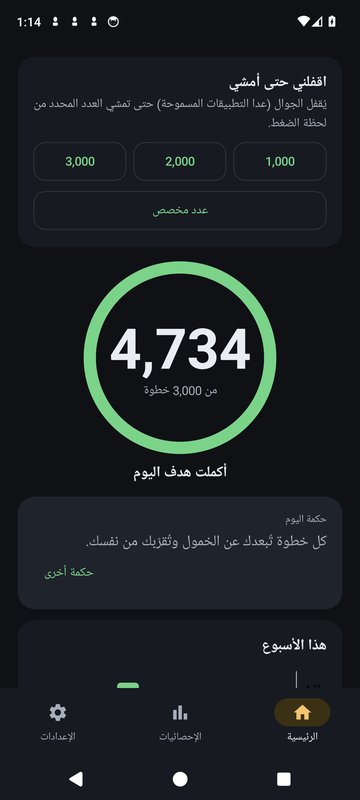
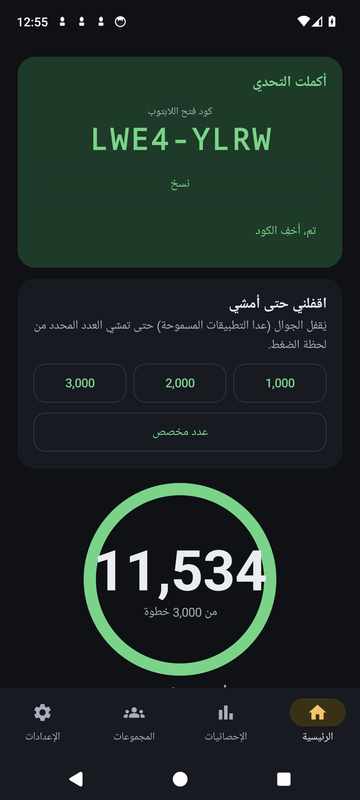
README v2: laptop pairing and codes flow, groups, language, day slider; fresh screenshots from CI
Claude-Session: https://claude.ai/code/session_01BBkAJwvFauh1QuPJP9u6uV

diff --git a/README.md b/README.md
@@ -1,6 +1,10 @@
 # khatwa (خطوة)
 
 <p align="center">
+  <img src="docs/logo.png" width="120" alt="شعار خطوة">
+</p>
+
+<p align="center">
   <img src="docs/screenshots/home.png" width="230" alt="الشاشة الرئيسية">
   &nbsp;&nbsp;
   <img src="docs/screenshots/lock-blocked.png" width="230" alt="شاشة القفل فوق تطبيق محظور">
@@ -8,7 +12,7 @@
   <img src="docs/screenshots/stats.png" width="230" alt="الإحصائيات">
 </p>
 
-**English summary.** khatwa is a free, open-source (MIT) Android app that counts your daily steps from the phone's built-in step sensor, shows light statistics and a daily Arabic quote, and can lock the phone (except apps you allow) until you walk a set number of steps, either on demand or on a daily schedule. A small Windows companion (`laptop-lock/`) locks your laptop at login until you enter a 6-digit daily code that the app reveals only after you reach your goal; the code is derived offline from a shared secret and the date. Everything works without internet; nothing leaves the phone. Downloads (APK and Windows exe) are on the **Releases** page. The rest of this README is in Arabic and written for non-technical users.
+**English summary.** khatwa is a free, open-source (MIT) Android app, in Arabic and English, that counts your daily steps from the phone's built-in step sensor, shows clean statistics and a sourced daily quote, and can lock the phone (except apps you allow) until you walk a set number of steps, on demand or on a daily schedule. A small Windows companion (`laptop-lock/`) locks your laptop too: pair it once with the phone, paste the *lock code* the phone shows when you start a walking challenge, and paste the *unlock code* it shows when the challenge is done. Both codes are derived offline from a shared secret, no network involved. An optional **Groups** tab (Firebase, off by default) lets friends compete on steps with anonymous identities and invite codes. Everything else works without internet; nothing leaves the phone unless you enable groups. Downloads (APK and Windows exe) are on the **Releases** page. The rest of this README is in Arabic and written for non-technical users.
 
 ---
 
@@ -16,12 +20,12 @@
 
 ## ما هو «خطوة»؟
 
-تطبيق أندرويد مجاني ومفتوح المصدر يعدّ خطواتك كل يوم من حساس الجوال مباشرة، ويعرض إحصائيات هادئة وحكمة يومية، ويستطيع قفل الجوال (ما عدا التطبيقات التي تسمح بها) حتى تمشي عدداً محدداً من الخطوات. ومعه برنامج صغير لويندوز يقفل اللابتوب عند تسجيل الدخول حتى تكمل هدف اليوم على الجوال.
+تطبيق أندرويد مجاني ومفتوح المصدر (بالعربية والإنجليزية) يعدّ خطواتك كل يوم من حساس الجوال مباشرة، ويعرض إحصائيات نظيفة وحكمة يومية موثّقة المصدر، ويستطيع قفل الجوال (ما عدا التطبيقات التي تسمح بها) حتى تمشي عدداً محدداً من الخطوات. ومعه برنامج صغير لويندوز يقفل اللابتوب بنفس التحدي: تقفل الجوال، تلصق «كود القفل» في اللابتوب فيُقفل، وعند إكمال التحدي تلصق «كود الفتح» فيُفتح. وفيه تبويب اختياري للمجموعات والتنافس مع الأصدقاء.
 
 **ما الذي لا يفعله:**
 
-- لا يحتاج إنترنت. لا حساب، لا تسجيل، لا إعلانات، لا ذكاء اصطناعي، لا Google Fit ولا Health Connect ولا Samsung Health.
-- لا يرسل أي بيانات إلى أي مكان. الاستثناء الوحيد ميزة «المجموعات والتنافس» الاختيارية التي لم تُضف بعد؛ وإن أضيفت فلن تعمل إلا إذا فعّلتها بنفسك، وحينها تُرسل اسماً مستعاراً وخطوات اليوم فقط.
+- لا يحتاج إنترنت (إلا ميزة المجموعات إن فعّلتها بنفسك). لا حساب، لا تسجيل، لا إعلانات، لا Google Fit ولا Health Connect ولا Samsung Health.
+- لا يرسل أي بيانات إلى أي مكان. الاستثناء الوحيد ميزة «المجموعات والتنافس»: مطفأة افتراضياً، وعند تفعيلها تُرسل اسماً مستعاراً وأرقام خطواتك فقط (الفقرة 3).
 - لا يحسب سعرات ولا مسافات ولا مؤشر كتلة الجسم. الوزن سجلٌ يدوي واتجاه فقط.
 - القفل ليس مستحيل الكسر، ولا يريد أن يكون. فيه مخرج طوارئ مقصود (انتظار دقيقة وكتابة جملة طويلة)، وكل استخدام له يُسجَّل باسم «استسلام».
 
@@ -33,7 +37,7 @@
 2. افتح التطبيق واتبع شاشة الترحيب: تشرح كل صلاحية قبل طلبها (1.3).
 3. فعّل «خدمة الإتاحة» و«العرض فوق التطبيقات» حتى يعمل القفل (1.4 و1.5). بدونهما يعدّ التطبيق خطواتك لكنه لا يستطيع قفل الجوال.
 4. على سامسونج: استثنِ التطبيق من قيود البطارية حتى لا يتوقف العدّ (1.6).
-5. امشِ. عندما تريد قفل الجوال اضغط 1000 أو 2000 أو 3000 في الرئيسية، أو فعّل القفل المجدول من الإعدادات.
+5. امشِ. عندما تريد قفل الجوال اضغط 1000 أو 2000 أو 3000 في الرئيسية، أو فعّل القفل المجدول من الإعدادات. ولقفل اللابتوب معه انظر الفقرة 2.
 
 ---
 
@@ -101,14 +105,15 @@
 
 ### 1.7 كيف يعمل التطبيق يومياً
 
-**الرئيسية.** رقم اليوم مع حلقة التقدّم، حكمة اليوم (وزر «حكمة أخرى»)، أعمدة الأسبوع مع خط الهدف، جلسات هذا الأسبوع، مقارنة بالأسبوع الماضي (نفس الأيام المنقضية، والأسبوع يبدأ الأحد لأن الجمعة والسبت عطلة)، السلسلة الحالية وأطول سلسلة، كود اللابتوب لليوم (يظهر فقط عند اكتمال الهدف)، وأزرار «اقفلني حتى أمشي».
+**الرئيسية.** رقم اليوم مع حلقة التقدّم، حكمة اليوم مع مصدرها (وزر «حكمة أخرى»؛ يمكن إخفاء البطاقة من الإعدادات)، أعمدة الأسبوع مع خط الهدف، جلسات هذا الأسبوع، مقارنة بالأسبوع الماضي (نفس الأيام المنقضية، والأسبوع يبدأ الأحد لأن الجمعة والسبت عطلة)، السلسلة الحالية وأطول سلسلة، أزرار «اقفلني حتى أمشي»، وأثناء القفل بطاقة «كود قفل اللابتوب» (الفقرة 2).
 
-**الإحصائيات.** آخر 30 يوماً (متوسط، أفضل يوم، أيام تحقق الهدف، الجلسات)، جلسات المشي (الجلسة = مشي متواصل 10 دقائق فأكثر مع توقفات لا تتجاوز دقيقتين)، آخر 12 شهراً مع خط الوزن، توزيع المشي على ساعات اليوم، وعدّاد الاستسلامات هذا الشهر.
+**الإحصائيات.** في الأعلى **شريط الأيام**: اسحبه يميناً ويساراً؛ اليوم في المنتصف يظهر كبيراً مع خطواته وحلقة هدفه، واليوم الذي بعده عن يمينه واليوم الذي قبله عن يساره بشكل ضبابي، والضغط على أيهما ينقله إلى المنتصف. تحته تفاصيل اليوم المختار (نسبة الهدف، الجلسات، أطول جلسة)، ثم السلاسل والمتوسط وأفضل يوم، ثم آخر 30 يوماً، جلسات المشي (الجلسة = مشي متواصل 10 دقائق فأكثر مع توقفات لا تتجاوز دقيقتين)، آخر 12 شهراً مع خط الوزن، توزيع المشي على ساعات اليوم، والاستسلامات هذا الشهر.
 
 <table align="center">
   <tr>
     <td align="center"><img src="docs/screenshots/home.png" width="230" alt="الرئيسية بعد اكتمال الهدف"><br>الرئيسية بعد اكتمال هدف اليوم</td>
-    <td align="center"><img src="docs/screenshots/stats.png" width="230" alt="الإحصائيات"><br>الإحصائيات</td>
+    <td align="center"><img src="docs/screenshots/stats.png" width="230" alt="الإحصائيات: شريط الأيام"><br>الإحصائيات: شريط الأيام</td>
+    <td align="center"><img src="docs/screenshots/stats-charts.png" width="230" alt="الإحصائيات: المخططات"><br>الإحصائيات: المخططات</td>
   </tr>
 </table>
 
@@ -128,7 +133,7 @@
 
 **قائمة المسموح.** افتراضياً الهاتف وجهات الاتصال والرسائل ويوتيوب. مسموح دائماً ولا يمكن حظره: المكالمات، الطوارئ، واجهة النظام، المشغّل، لوحة المفاتيح، وهذا التطبيق. خيار «حظر تطبيق الإعدادات أثناء القفل» مفعّل افتراضياً.
 
-**الطوارئ.** زر «طوارئ / إلغاء القفل» في شاشة القفل (وفي الرئيسية أثناء القفل): انتظار 60 ثانية، ثم كتابة الجملة «أختار الاستسلام اليوم وأعلم أن هذا يُسجَّل» حرفياً، ثم تأكيد. يُسجَّل استسلاماً بالتاريخ والخطوات المتبقية.
+**الطوارئ.** زر «طوارئ / إلغاء القفل» في شاشة القفل (وفي الرئيسية أثناء القفل): انتظار 60 ثانية، ثم كتابة جملة طويلة حرفياً (بالعربية «أختار الاستسلام اليوم وأعلم أن هذا يُسجَّل»، وبالإنجليزية جملة مكافئة عندما تكون لغة التطبيق إنجليزية)، ثم تأكيد. يُسجَّل استسلاماً بالتاريخ والخطوات المتبقية.
 
 <table align="center">
   <tr>
@@ -137,17 +142,19 @@
   </tr>
 </table>
 
-**الإعدادات.** الهدف، القفل المجدول، قائمة المسموح، قفل اللابتوب، سجل الوزن، الحكم (تعديل وتصدير واستيراد)، النسخة الاحتياطية، حالة الصلاحيات، الإشعار الصباحي، والمظهر.
+**الإعدادات.** الهدف، القفل المجدول، قائمة المسموح، قفل اللابتوب (الاقتران)، سجل الوزن، الحكم (تعديل وتصدير واستيراد)، النسخة الاحتياطية، حالة الصلاحيات، ثم بطاقة «الإشعارات والمظهر».
 
-**المظهر.** من الإعدادات ← الإشعارات والمظهر: «تلقائي» (يتبع وضع الجهاز)، أو «فاتح»، أو «داكن». الواجهة والمخططات كلها من اليمين إلى اليسار.
+**اللغة والمظهر.** من الإعدادات ← الإشعارات والمظهر: اللغة **العربية** أو **English** (تتغير كل الشاشات والإشعارات واتجاه الواجهة والمخططات فوراً، وتُختار الحكم بلغة التطبيق)، والمظهر «تلقائي» (يتبع وضع الجهاز) أو «فاتح» أو «داكن».
 
 <table align="center">
   <tr>
     <td align="center"><img src="docs/screenshots/settings.png" width="230" alt="شاشة الإعدادات"><br>الإعدادات</td>
     <td align="center"><img src="docs/screenshots/home-light.png" width="230" alt="الرئيسية بالمظهر الفاتح"><br>الرئيسية بالمظهر الفاتح</td>
-    <td align="center"><img src="docs/screenshots/stats-light.png" width="230" alt="الإحصائيات بالمظهر الفاتح"><br>الإحصائيات بالمظهر الفاتح</td>
+    <td align="center"><img src="docs/screenshots/english-home.png" width="230" alt="الرئيسية بالإنجليزية"><br>الرئيسية بالإنجليزية</td>
   </tr>
 </table>
+
+**الحكم.** مجموعة موثّقة المصدر: أبيات ومقولات عربية (الشافعي، المتنبي، الشابي، ابن الوردي، أبو ماضي، شوقي، جبران، ابن خلدون وغيرهم) ومقولات إنجليزية من فلاسفة وكتّاب معروفين، كل واحدة منسوبة إلى قائلها. لا أحاديث ولا نصوص من تأليف أحد. يمكنك تعديل القائمة أو إضافة حكمك أو استعادة القائمة الأصلية من الإعدادات ← الحكم.
 
 <table align="center">
   <tr>
@@ -158,7 +165,7 @@
 
 ### 1.8 النسخة الاحتياطية
 
-الإعدادات ← النسخة الاحتياطية ← **تصدير نسخة كاملة**: ملف JSON واحد يشمل الخطوات والجلسات واللقطات والوزن والاستسلامات والحكم وكل الإعدادات (بما فيها سر اللابتوب). احفظه في مكان آمن (مثلاً Google Drive الخاص بك). **الاستيراد** يستبدل كل البيانات الحالية. **مسح كل البيانات** يعيد التطبيق إلى شاشة الترحيب.
+الإعدادات ← النسخة الاحتياطية ← **تصدير نسخة كاملة**: ملف JSON واحد يشمل الخطوات والجلسات واللقطات والوزن والاستسلامات والحكم وكل الإعدادات (بما فيها كود اقتران اللابتوب واسمك المستعار في المجموعات). احفظه في مكان آمن (مثلاً Google Drive الخاص بك). **الاستيراد** يستبدل كل البيانات الحالية. **مسح كل البيانات** يعيد التطبيق إلى شاشة الترحيب.
 
 ---
 
@@ -166,70 +173,117 @@
 
 ### 2.1 المبدأ
 
-كود يومي من 6 أرقام يُحسب من (سر مشترك + تاريخ اليوم) على الجهازين بلا أي شبكة. الجوال يعرض الكود فقط بعد اكتمال هدف اليوم. اللابتوب يطلبه عند تسجيل الدخول، ويقبل كود اليوم أو كود الأمس. عند القبول يبقى مفتوحاً حتى نهاية اليوم، وفي اليوم التالي يقفل من جديد.
+لا شبكة ولا بلوتوث ولا حساب. الجوال واللابتوب يتشاركان **كود اقتران** واحداً (16 حرفاً) تدخله في اللابتوب مرة واحدة. بعدها لكل تحدي مشي كودان يحسبهما الجهازان بنفس الطريقة:
+
+- **كود قفل اللابتوب** (8 أحرف): يظهر في الرئيسية لحظة قفل الجوال. تلصقه في برنامج اللابتوب فيُقفل اللابتوب. الكود الخاطئ يُرفض.
+- **كود فتح اللابتوب** (8 أحرف): يظهر في الرئيسية عندما ينتهي التحدي (أكملت الخطوات أو استسلمت). تلصقه في شاشة قفل اللابتوب فيُفتح.
+
+<table align="center">
+  <tr>
+    <td align="center"><img src="docs/screenshots/laptop-lock-code.png" width="230" alt="كود قفل اللابتوب في الرئيسية"><br>عند القفل: كود قفل اللابتوب</td>
+    <td align="center"><img src="docs/screenshots/laptop-unlock-code.png" width="230" alt="كود فتح اللابتوب في الرئيسية"><br>عند إكمال التحدي: كود الفتح</td>
+    <td align="center"><img src="docs/screenshots/laptop-settings.png" width="230" alt="شاشة قفل اللابتوب في الإعدادات"><br>الإعدادات ← قفل اللابتوب: الاقتران</td>
+  </tr>
+</table>
 
 ### 2.2 التحميل وتحذير SmartScreen
 
-1. من صفحة **Releases** نزّل `khatwa-laptop-lock-<الإصدار>.exe` و`install.ps1` و`uninstall.ps1` وضعها في مجلد واحد (مثلاً `C:\khatwa`).
+1. من صفحة **Releases** نزّل `khatwa-laptop-lock-<الإصدار>.exe` (ملف واحد، لا تثبيت). ضعه في أي مجلد، مثلاً `C:\khatwa`.
 2. عند أول تشغيل قد يظهر **Windows SmartScreen**: «منع Windows تشغيل تطبيق غير معروف». اضغط **«مزيد من المعلومات»** ثم **«التشغيل على أي حال»**. السبب أن الملف غير موقّع بشهادة تجارية مدفوعة، وهذا طبيعي لبرنامج مفتوح المصدر.
 3. إن حجب المتصفح التنزيل، اختر «الاحتفاظ بالملف».
 
-### 2.3 نسخ السر من التطبيق
+### 2.3 الاقتران (مرة واحدة)
 
-في الجوال: الإعدادات ← **قفل اللابتوب** ← **توليد السر**. يظهر السر (24 حرفاً) مرة واحدة مع زر نسخ. انقله إلى اللابتوب (اكتبه يدوياً أو أرسله لنفسك بأي طريقة تثق بها ثم احذفه).
+1. في الجوال: الإعدادات ← **قفل اللابتوب** ← **توليد كود الاقتران**. يظهر كود من 16 حرفاً مع زر نسخ. (يظهر الزر نفسه في الرئيسية عند أول قفل إن لم تقرن بعد.)
+2. في اللابتوب: افتح البرنامج، الصق الكود في خانة «اقتران مع الجوال» واضغط **اقتران**. تظهر «اللابتوب مقترن بجوالك».
+3. زر اللغة أعلى النافذة يبدّل بين العربية والإنجليزية.
 
-<p align="center"><img src="docs/screenshots/laptop-settings.png" width="260" alt="شاشة قفل اللابتوب في التطبيق"></p>
+**لا تشارك كود الاقتران مع أحد.** إن أعدت توليده في الجوال فسيتوقف اللابتوب عن قبول الأكواد حتى تعيد الاقتران بالكود الجديد.
 
-### 2.4 التثبيت
+### 2.4 القفل والفتح
 
-1. اضغط زر ابدأ، اكتب `PowerShell`، اختر **«تشغيل كمسؤول»**.
-2. انتقل إلى المجلد ثم شغّل السكربت:
+1. اقفل جوالك من الرئيسية (1000 / 2000 / 3000 أو القفل المجدول). تظهر بطاقة **كود قفل اللابتوب** مع زر نسخ.
+2. في اللابتوب: الصق الكود في خانة «قفل اللابتوب» واضغط الزر. إن كان صحيحاً تظهر شاشة القفل فوق كل النوافذ فوراً. إن لم يطابق جوالك تظهر رسالة خطأ ولا يحدث شيء.
+3. امشِ. عندما ينتهي التحدي على الجوال تظهر بطاقة **كود فتح اللابتوب**.
+4. في شاشة قفل اللابتوب: الصق كود الفتح واضغط **فتح**. الكود الخاطئ يُرفض (وبعد عدة محاولات ينتظر قليلاً).
 
-<div dir="ltr">
+أثناء القفل: إغلاق النافذة أو إنهاؤها من مدير المهام يعيد فتحها خلال ثوانٍ، ومفاتيح Win وAlt+Tab وAlt+F4 معطّلة. Ctrl+Alt+Del لا يمكن تعطيله وهذا مقصود من ويندوز.
 
-```powershell
-cd C:\khatwa
-powershell -ExecutionPolicy Bypass -File .\install.ps1
-```
+### 2.5 الطوارئ والسجل
 
-</div>
+- **الطوارئ** في شاشة القفل: انتظار 60 ثانية ثم كتابة جملة طويلة حرفياً (بالعربية أو بالإنجليزية بحسب لغة البرنامج) ثم تأكيد. يُسجَّل استسلاماً.
+- **سجل الاستسلامات**: زر في النافذة الرئيسية للبرنامج.
+- **صراحةً**: القفل قابل للكسر (الوضع الآمن، حذف المجلد). المطلوب مقاومة معقولة فقط.
 
-3. الصق السر عندما يُطلب (أو مرّره مباشرة: `-Secret "..."`).
-4. السكربت ينسخ البرنامج إلى `%LOCALAPPDATA%\khatwa`، ويكتب `config.json`، ويسجّل مهمتين مجدولتين عند تسجيل الدخول بأعلى صلاحيات: `KhatwaLock` (شاشة القفل) و`KhatwaLockWatchdog` (يعيد فتح الشاشة إن أُغلقت وأنت ما زلت مقفولاً)، ثم يشغّلهما فوراً كتجربة أولى.
+### 2.6 التشغيل عند تسجيل الدخول
 
-### 2.5 التجربة الأولى
+في النافذة الرئيسية سطر «يعمل عند تسجيل الدخول». عند تفعيله ينسخ البرنامج نفسه إلى `%LOCALAPPDATA%\khatwa` ويسجّل نفسه في تشغيل ويندوز بلا صلاحيات مسؤول، حتى يعود القفل إن كان نشطاً بعد إعادة التشغيل. الإعدادات والحالة في `config.json` و`state.json` في نفس المجلد.
 
-تظهر شاشة كاملة فوق كل النوافذ: «أكمل تحدي المشي ثم أدخل الكود من تطبيق خطوة». أدخل كود اليوم من الرئيسية في الجوال (يظهر بعد اكتمال الهدف) واضغط «فتح». الكود الخاطئ لا يفتح. إغلاق النافذة أو إنهاؤها من مدير المهام يعيد فتحها خلال ثوانٍ. مفاتيح Win وAlt+Tab وAlt+F4 معطّلة أثناء القفل؛ Ctrl+Alt+Del لا يمكن تعطيله وهذا مقصود من ويندوز.
+اختيارياً لمن يريد مقاومة أعلى (مهمة مجدولة بأعلى الصلاحيات): `install.ps1` و`uninstall.ps1` في صفحة Releases، تُشغَّل في PowerShell كمسؤول. **لا تحتاجهما في الاستخدام العادي.**
 
-- **الطوارئ**: نفس مقاومة الجوال: 60 ثانية ثم كتابة الجملة ثم تأكيد. يُسجَّل في `surrenders.json` ويُعرض بتشغيل `KhatwaLock.exe --log`.
-- **صراحةً**: القفل قابل للكسر (الوضع الآمن، إدارة المهام المجدولة، حذف المجلد). المطلوب مقاومة معقولة فقط.
-- ملف الإعدادات `%LOCALAPPDATA%\khatwa\config.json` يحتوي السر وجملة الطوارئ (يمكنك تغييرها إلى جملة لاتينية إن كانت الكتابة بالعربية صعبة على اللابتوب) ومدة الانتظار.
+### 2.7 الإزالة
 
-### 2.6 الإزالة
-
-في PowerShell كمسؤول:
-
-<div dir="ltr">
-
-```powershell
-powershell -ExecutionPolicy Bypass -File .\uninstall.ps1
-```
-
-</div>
-
-يزيل المهمتين ويوقف البرنامج ويحذف المجلد. للإبقاء على السجل والإعدادات: أضف `-KeepData`.
+أوقف «يعمل عند تسجيل الدخول» من النافذة الرئيسية (أو اضغط «إلغاء الاقتران»)، ثم احذف الملف والمجلد `%LOCALAPPDATA%\khatwa`. إن استخدمت `install.ps1` فشغّل `uninstall.ps1` كمسؤول.
 
 ---
 
-## 3. الأسئلة الشائعة
+## 3. المجموعات والتنافس (اختياري)
+
+### 3.1 ما هي
+
+تبويب **المجموعات** في التطبيق. أنشئ مجموعة (اسم ووصف قصير) فتصبح مالكها وتحصل على **كود دعوة** من 8 أحرف تعطيه لمن تشاء؛ من يدخله ينضم. داخل المجموعة ترتيب الأعضاء بالاسم المستعار حسب الفترة (اليوم / هذا الأسبوع / هذا الشهر) وحسب: الخطوات، أيام تحقيق الهدف، السلسلة الحالية، أو أطول جلسة مشي، تصاعدياً أو تنازلياً. وفي تبويب «كل المجموعات» ترتيب عام لكل المجموعات الظاهرة (بالاسم وعدد الأعضاء فقط) حسب المجموع أو المتوسط لكل عضو أو نسبة تحقيق الهدف أو عدد الأعضاء، مع بحث بالاسم.
+
+المالك يستطيع: إعادة توليد الكود، إزالة عضو، إخفاء المجموعة من القائمة العامة، حذف المجموعة. أي عضو يستطيع المغادرة، ويمكنك أن تكون في أكثر من مجموعة (وتملك حتى 5، وكل مجموعة حتى 200 عضو).
+
+<table align="center">
+  <tr>
+    <td align="center"><img src="docs/screenshots/groups-optin.png" width="230" alt="شاشة تفعيل المجموعات"><br>التفعيل: ما الذي يُرسل بالضبط</td>
+    <td align="center"><img src="docs/screenshots/group-owner.png" width="230" alt="مجموعة من منظور المالك"><br>المجموعة من منظور المالك: كود الدعوة</td>
+    <td align="center"><img src="docs/screenshots/group-leaderboard.png" width="230" alt="ترتيب الأعضاء"><br>ترتيب الأعضاء مع الفلاتر</td>
+  </tr>
+</table>
+
+### 3.2 ماذا يُرسل، وماذا لا
+
+- الميزة **مطفأة افتراضياً**. لا يخرج من جوالك أي شيء حتى تضغط «تفعيل المجموعات» بنفسك.
+- عند التفعيل يُرسل التطبيق إلى Firebase (خدمة من Google): اسمك المستعار، وخطوات اليوم وهذا الأسبوع وهذا الشهر، وعدد أيام تحقيق الهدف، وأطول جلسة مشي، وسلسلتك الحالية. لا شيء آخر، ولا يوجد إدخال يدوي للخطوات في أي مكان.
+- هويتك **مجهولة**: لا بريد ولا كلمة مرور. تضيع عند حذف التطبيق أو مسح بياناته؛ حينها تنضم إلى مجموعاتك من جديد بكود الدعوة.
+- غير الأعضاء لا يرون أسماء الأعضاء ولا كود الدعوة؛ تُفرض ذلك قواعد الأمان على الخادم لا واجهة التطبيق فقط.
+- **حد معروف:** بلا خادم وسيط، مجموع كل مجموعة يُحسب من أرقام يرسلها كل جهاز بنفسه. مستخدم تقني يستطيع، عبر واجهة Firebase مباشرة لا عبر التطبيق، رؤية أرقام **مجهولة الهوية بلا أسماء**، ولا يستطيع أكثر من ذلك. كما أن مستخدماً تقنياً يستطيع التلاعب بأرقامه هو؛ الخادم يرفض فقط ما يتجاوز 60 ألف خطوة في اليوم.
+
+### 3.3 الاستخدام
+
+1. تبويب المجموعات ← اكتب اسماً مستعاراً ← **تفعيل المجموعات**.
+2. **إنشاء مجموعة**: اسم + وصف. تفتح صفحة المجموعة وفيها كود الدعوة مع زر نسخ. أرسله لأصدقائك.
+3. **انضمام بكود**: الصق الكود الذي وصلك.
+4. أرقامك تُرسل عند فتح التبويب وكل ساعتين تقريباً في الخلفية (زر «تحديث» يرسلها فوراً).
+5. **إيقاف المجموعات** في أسفل التبويب يوقف الإرسال في أي وقت.
+
+### 3.4 لمن يبني نسخته الخاصة: إعداد Firebase
+
+النسخة المنشورة في Releases مبنية بإعدادات مشروع Firebase الخاص بالمستودع. إن بنيت التطبيق بنفسك بلا هذه الإعدادات فسيعمل كل شيء ويظهر تبويب المجموعات رسالة «غير متاحة في هذه النسخة». لتشغيلها على مشروعك:
+
+1. أنشئ مشروعاً في `console.firebase.google.com` (الخطة المجانية Spark تكفي).
+2. **Firestore Database** ← أنشئ قاعدة بيانات (وضع الإنتاج) ← تبويب **Rules** ← الصق محتوى الملف `firebase/firestore.rules` كاملاً ← **Publish**.
+3. **Authentication** ← Sign-in method ← فعّل **Anonymous**.
+4. أضف تطبيق أندرويد باسم الحزمة `com.khatwa.app` ونزّل `google-services.json`. لا تضعه في المستودع العام؛ ضعه في `app/google-services.json` محلياً، أو في GitHub كسرّ باسم `KHATWA_GOOGLE_SERVICES_BASE64` (محتوى الملف مرمّزاً base64) فيستخدمه CI والنشر تلقائياً.
+5. اختياري لكن مستحسن: **App Check** ← سجّل تطبيق أندرويد بمزوّد Play Integrity (يحتاج بصمة SHA-256 لمفتاح التوقيع؛ تجدها في مخرجات وظيفة CI «apksigner verify»). لا تفعّل «Enforce» قبل التأكد أن النسخة الموقّعة تعمل.
+
+---
+
+## 4. الأسئلة الشائعة
 
 **القفل لا يعمل.** افتح التطبيق: إن ظهر تنبيه «القفل لا يعمل» فاضغط زره. غالباً السبب خدمة الإتاحة غير مفعّلة (انظر 1.4 للإعدادات المقيّدة) أو صلاحية العرض فوق التطبيقات. على سامسونج تأكد من Auto Blocker (1.2) والبطارية (1.6). أعد تشغيل الجوال بعد التفعيل إن لزم.
 
 **الخطوات لا تُعدّ.** الإعدادات ← حالة الصلاحيات: تحقق من «حساس الخطوات» و«النشاط البدني» و«العدّاد يعمل». اضغط «تشغيل» لإعادة تشغيل العدّاد. تأكد من استثناء البطارية (1.6). تذكّر أن الجوال يجب أن يكون معك أثناء المشي. بعد إعادة تشغيل الجوال يعود العدّ تلقائياً ولا تضيع خطوات اليوم.
 
-**فقدت السر.** الجوال: الإعدادات ← قفل اللابتوب ← إعادة توليد السر، ثم أعد تشغيل `install.ps1` على اللابتوب بالسر الجديد. إن كان اللابتوب مقفولاً الآن ولا تملك الكود: استخدم الطوارئ (يُسجَّل استسلاماً) أو ادخل بالوضع الآمن وشغّل `uninstall.ps1`.
+**اللابتوب يرفض كود القفل.** تأكد أنك نسخته من بطاقة القفل **النشط** في الرئيسية (لكل قفل كود جديد)، وأن اللابتوب مقترن بنفس الجوال (إن أعدت توليد كود الاقتران فأعد الاقتران).
 
-**كيف أحذف كل شيء؟** الجوال: الإعدادات ← النسخة الاحتياطية ← مسح كل البيانات، ثم احذف التطبيق. اللابتوب: `uninstall.ps1`.
+**اللابتوب مقفول ولا أملك كود الفتح.** أكمل التحدي على الجوال أو استسلم فيه، فيظهر كود الفتح في الرئيسية (تبقى البطاقة حتى تخفيها). وإن ضاع الجوال: الطوارئ في شاشة قفل اللابتوب (يُسجَّل استسلاماً).
+
+**فقدت كود الاقتران.** الجوال: الإعدادات ← قفل اللابتوب ← إعادة توليد، ثم في اللابتوب «إلغاء الاقتران» وأدخل الكود الجديد.
+
+**كيف أحذف كل شيء؟** الجوال: الإعدادات ← النسخة الاحتياطية ← مسح كل البيانات، ثم احذف التطبيق. اللابتوب: الفقرة 2.7. المجموعات: غادر مجموعاتك (أو احذف التي تملكها) قبل مسح البيانات إن أردت إزالة أرقامك من الخادم.
 
 **هل يستهلك البطارية؟** استهلاكه ضئيل: عدّاد الخطوات يعمل على معالج الحساسات منفصلاً، والتطبيق يقرأ قيمته فقط.
 
@@ -237,14 +291,15 @@ powershell -ExecutionPolicy Bypass -File .\uninstall.ps1
 
 ---
 
-## 4. للمطوّرين
+## 5. للمطوّرين
 
-- المستودع: `core/` وحدة Kotlin/JVM نقية (عدّ الخطوات مع الإقلاع ومنتصف الليل، الجلسات، الهدف التدرّجي، السلاسل، HMAC) باختبارات تعمل بلا Android SDK؛ `app/` تطبيق أندرويد (Kotlin + Jetpack Compose + Room + WorkManager + Vico)؛ `laptop-lock/` برنامج ويندوز (C#، .NET 8، WinForms)؛ `shared/hmac-vectors.json` قيم ثابتة يتحقق منها اختبار Kotlin واختبار C# معاً؛ `docs/screenshots/` لقطات هذا الملف، وهي مأخوذة من محاكي CI في كل تشغيل.
-- **البناء عبر GitHub Actions** (`.github/workflows/ci.yml`): عند كل push على `main` وفروع `claude/**` وعند التشغيل اليدوي. وظيفة Ubuntu: اختبارات الوحدة، APK debug وrelease، فحص خلوّ نسخة release من أدوات الاختبار، محاكي أندرويد (API 34) يشغّل الاختبارات المطلوبة ويرفع الأدلة كـ artifact باسم `emulator-evidence` (لقطات شاشة، logcat، قاعدة البيانات، تقارير الاختبار)، وفحص أن نسخة release تعمل بلا انهيار. وظيفة Windows: اختبارات C# وبناء exe واحد مستقل ورفعه كـ artifact. الـ APK والـ exe يُرفعان كـ artifacts في كل تشغيل.
-- **النشر** (`.github/workflows/release.yml`): عند دفع وسم مثل `v1.0.0` تُنشأ صفحة Release مرفقاً بها `khatwa-<version>.apk` و`khatwa-laptop-lock-<version>.exe` والسكربتين.
-- **التوقيع**: الـ workflow يوقّع نسخة release بمفتاحك إن وُجدت الأسرار الأربعة `KHATWA_KEYSTORE_BASE64` و`KHATWA_KEYSTORE_PASSWORD` و`KHATWA_KEY_ALIAS` و`KHATWA_KEY_PASSWORD` في Settings ← Secrets and variables ← Actions، وإلا يوقّع بمفتاح debug. لا keystore ولا أسرار في المستودع.
-- **مصدر خطوات وهمي للاختبار**: نسخة debug فقط تحتوي `FakeStepSource` ومستقبِل adb (`app/src/debug`)، ويستبدل الحساس تلقائياً على المحاكي. نسخة release لا تحتوي أياً منهما ويُفحص ذلك في CI (`ci/verify-release.sh`). أوامر adb للتجربة اليدوية مذكورة في `DebugReceiver.kt`.
-- البناء محلياً: `./gradlew :core:test :app:assembleDebug` (يحتاج Android SDK وJDK 17)، و`dotnet test laptop-lock/KhatwaLock.Tests` للجزء الخاص بويندوز.
+- المستودع: `core/` وحدة Kotlin/JVM نقية (عدّ الخطوات مع الإقلاع ومنتصف الليل، الجلسات، الهدف التدرّجي، السلاسل، أكواد اللابتوب HMAC، ترتيب المجموعات) باختبارات تعمل بلا Android SDK؛ `app/` تطبيق أندرويد (Kotlin + Jetpack Compose + Room + WorkManager + Vico + Firebase)؛ `laptop-lock/` برنامج ويندوز (C#، .NET 8، WinForms)؛ `shared/hmac-vectors.json` قيم ثابتة يتحقق منها اختبار Kotlin واختبار C# معاً؛ `firebase/` قواعد أمان Firestore واختباراتها على المحاكي؛ `docs/screenshots/` لقطات هذا الملف، مأخوذة من محاكي CI.
+- **النصوص** كلها في `app/src/main/java/com/khatwa/app/i18n/` (`Ar.kt` و`En.kt`)؛ لإضافة لغة أنشئ كائناً ثالثاً يطبّق `Strings`.
+- **البناء عبر GitHub Actions** (`.github/workflows/ci.yml`): عند كل push على `main` وفروع `claude/**`. وظيفة Android: اختبارات الوحدة، APK debug وrelease، فحص خلوّ نسخة release من أدوات الاختبار، تشغيل محاكيات Firebase (Auth + Firestore) على الـ runner، محاكي أندرويد (API 34) يشغّل الاختبارات كلها بما فيها إنشاء مجموعة والانضمام إليها، ورفع الأدلة كـ artifact باسم `emulator-evidence`. وظيفة Firestore: اختبارات قواعد الأمان (`firebase/tests`) على المحاكي. وظيفة Windows: اختبارات C# وبناء exe واحد مستقل.
+- **الأسرار** (Settings ← Secrets and variables ← Actions): التوقيع `KHATWA_KEYSTORE_BASE64` و`KHATWA_KEYSTORE_PASSWORD` و`KHATWA_KEY_ALIAS` و`KHATWA_KEY_PASSWORD` (بدونها يُوقَّع بمفتاح debug)، وإعدادات Firebase `KHATWA_GOOGLE_SERVICES_BASE64` (بدونها يُستخدم `app/google-services.placeholder.json` وتظهر المجموعات «غير متاحة»). لا keystore ولا `google-services.json` في المستودع.
+- **النشر** (`.github/workflows/release.yml`): عند دفع وسم مثل `v0.2.0` تُنشأ صفحة Release مرفقاً بها `khatwa-<version>.apk` و`khatwa-laptop-lock-<version>.exe` (والسكربتان الاختياريان).
+- **مصدر خطوات وهمي للاختبار**: نسخة debug فقط تحتوي `FakeStepSource` ومستقبِل adb (`app/src/debug`)، ويستبدل الحساس تلقائياً على المحاكي. نسخة release لا تحتوي أياً منهما ويُفحص ذلك في CI (`ci/verify-release.sh`).
+- البناء محلياً: `./gradlew :core:test :app:assembleDebug` (يحتاج Android SDK وJDK 17)، `dotnet test laptop-lock/KhatwaLock.Tests` للجزء الخاص بويندوز، و`cd firebase && npm install && npm test` لقواعد Firestore (يحتاج Node 22 وJava).
 - الرخصة: MIT.
 
 </div>
